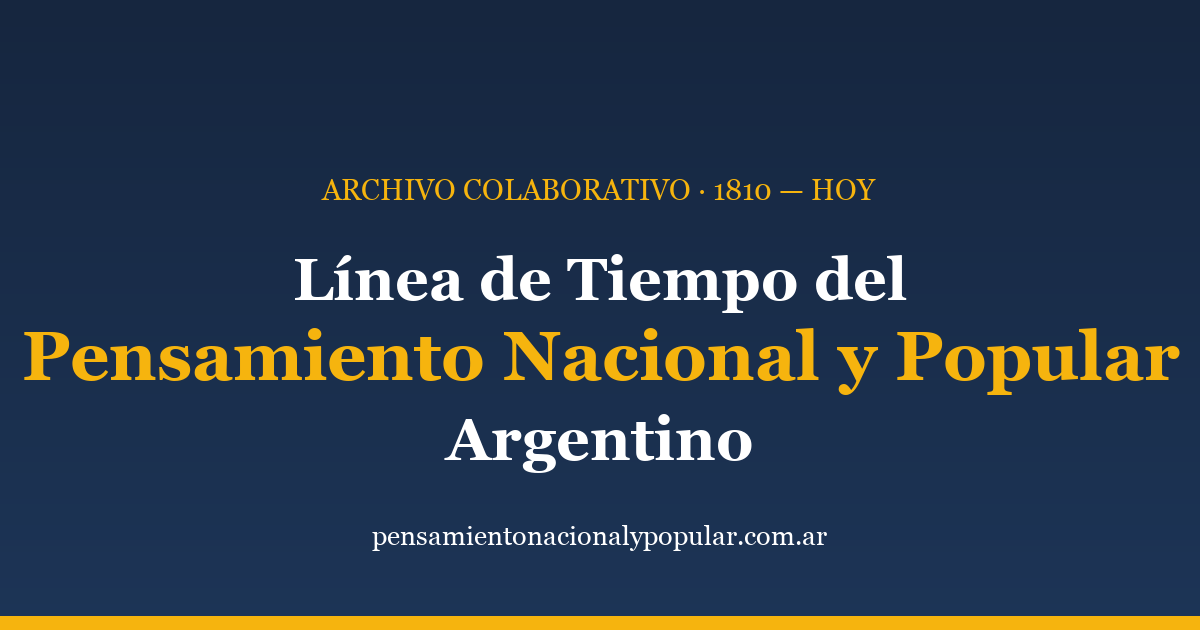
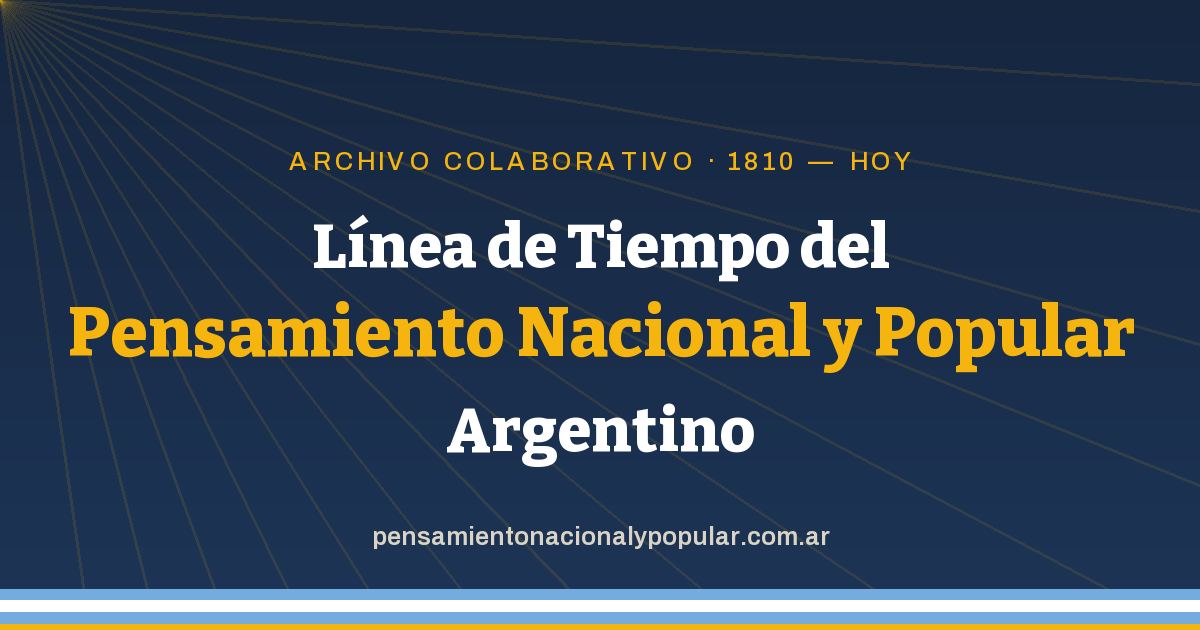
feat: friendly /tipo/{type} URLs and redesigned brand assets
- Type filter gets its own path, never mixed with /linea/{year}: the URL
  shows the filter when active, the year otherwise; unknown types
  redirect home
- Share image regenerated with the real brand fonts (Bitter 800,
  Archivo) mirroring the header: corner rays, flag band, gold hairline
- Sol de Mayo favicon and touch icon: 16-ray sun

diff --git a/assets/js/app.js b/assets/js/app.js
@@ -30,6 +30,7 @@ let revealObserver = null;
 
 const EXCERPT_COLLAPSE_LENGTH = 320;
 const YEAR_PATH = /^\/linea\/(\d{4})\/?$/;
+const TYPE_PATH = /^\/tipo\/([a-z]+)\/?$/;
 const prefersReducedMotion = window.matchMedia(
 	"(prefers-reduced-motion: reduce)",
 );
@@ -157,7 +158,11 @@ function setupYearNavClicks() {
 		if (!chip) return;
 
 		const year = chip.dataset.year;
-		history.pushState(null, "", `/linea/${year}${typeQuery()}`);
+		history.pushState(
+			null,
+			"",
+			activeType ? `/tipo/${activeType}` : `/linea/${year}`,
+		);
 		scrollToYear(year, prefersReducedMotion.matches ? "auto" : "smooth");
 	});
 }
@@ -190,7 +195,7 @@ function buildTypeNav() {
 		activeType = activeType === picked ? null : picked;
 		refreshTypePills();
 		renderAll();
-		history.replaceState(null, "", `/${typeQuery()}`);
+		history.replaceState(null, "", activeType ? `/tipo/${activeType}` : "/");
 		window.scrollTo({ top: 0, behavior: "auto" });
 	});
 }
@@ -204,14 +209,10 @@ function refreshTypePills() {
 	}
 }
 
-/** Reads the ?tipo= filter from the URL, ignoring unknown values. */
+/** Reads the /tipo/{type} filter from the URL, ignoring unknown values. */
 function typeFromUrl() {
-	const tipo = new URLSearchParams(location.search).get("tipo");
-	return Object.hasOwn(TYPE_LABELS, tipo) ? tipo : null;
-}
-
-function typeQuery() {
-	return activeType ? `?tipo=${activeType}` : "";
+	const tipo = location.pathname.match(TYPE_PATH)?.[1];
+	return tipo && Object.hasOwn(TYPE_LABELS, tipo) ? tipo : null;
 }
 
 function scrollToYear(year, behavior) {
@@ -254,10 +255,15 @@ function setupHistory() {
 	});
 }
 
-/** Mirrors year and type filter into the address bar (shareable URLs). */
+/** Mirrors the view into the address bar: the active type filter wins,
+ *  otherwise the year being scrolled (one concept per URL). */
 function syncUrl(year) {
-	const target = (year === "all" ? "/" : `/linea/${year}`) + typeQuery();
-	if (location.pathname + location.search !== target) {
+	const target = activeType
+		? `/tipo/${activeType}`
+		: year === "all"
+			? "/"
+			: `/linea/${year}`;
+	if (location.pathname !== target) {
 		history.replaceState(null, "", target);
 	}
 }

diff --git a/index.html b/index.html
@@ -230,7 +230,7 @@
       </div>
     </aside>
 
-    <script src="/assets/js/app.js?v=7"></script>
+    <script src="/assets/js/app.js?v=8"></script>
     <script src="/assets/js/credits.js?v=2"></script>
   </body>
 </html>

diff --git a/router.php b/router.php
@@ -20,6 +20,18 @@ if (preg_match('#^/linea/[0-9]{4}/?$#', $path)) {
     return true;
 }
 
+if (preg_match('#^/tipo/(discurso|carta|manifiesto|libro|ensayo|poema|entrevista|texto)/?$#', $path)) {
+    header('Content-Type: text/html; charset=utf-8');
+    readfile(__DIR__ . '/index.html');
+    return true;
+}
+
+// Unknown type filters go home rather than 404.
+if (preg_match('#^/tipo(/.*)?$#', $path)) {
+    header('Location: /', true, 302);
+    return true;
+}
+
 if (preg_match('#^/cargar(/[0-9]{4})?/?$#', $path)) {
     header('Content-Type: text/html; charset=utf-8');
     readfile(__DIR__ . '/cargar.html');

diff --git a/tests/integration.php b/tests/integration.php
@@ -150,6 +150,8 @@ check(request('GET', '/linea/1945')['status'] === 200, 'year URL responds');
 check(request('GET', '/cargar/1945')['status'] === 200, 'prefilled form URL responds');
 check(request('GET', '/linea/abcd')['status'] === 404, 'invalid year URL is 404');
 check(request('GET', '/linea/')['status'] === 302, 'year-less /linea redirects home');
+check(request('GET', '/tipo/discurso')['status'] === 200, 'type filter URL responds');
+check(request('GET', '/tipo/zarzuela')['status'] === 302, 'unknown type redirects home');
 
 section('Document share landing');
 $res = request('GET', '/documento/1');